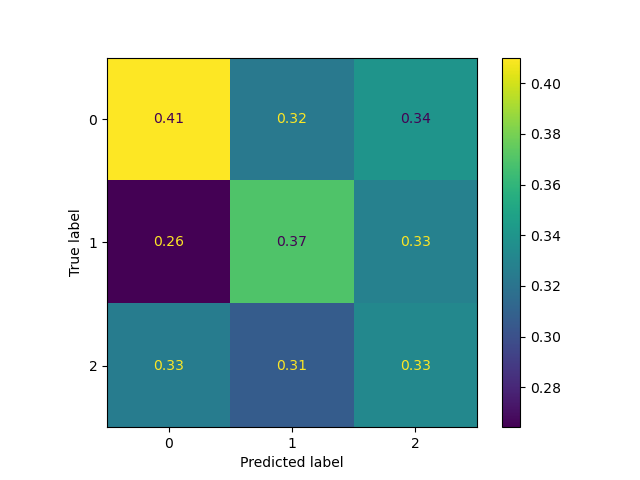
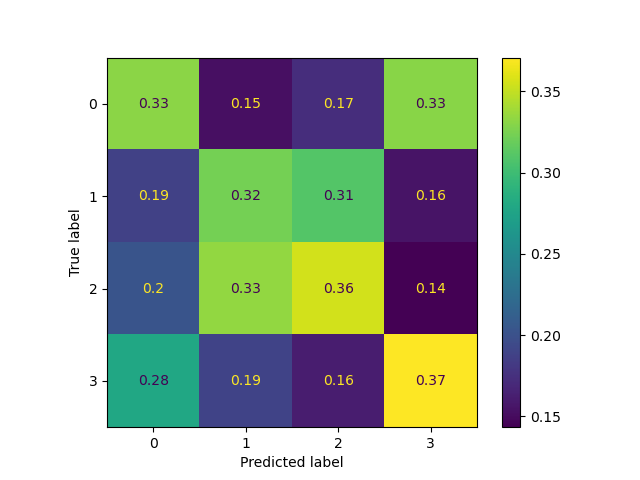
Running all the codes to check they work, including a new confusion matrix image

diff --git a/run_genetic_algo.py b/run_genetic_algo.py
@@ -10,23 +10,23 @@ if __name__ == "__main__":
                  'strat': 'simple bollinger band',
         
                  # Basic controls for the genetic algo
-                 'num strats': 40, # Number of strategies to try on each evolution
-                 'num tickers': 15, # Number of tickers to optimise over
+                 'num strats': 100, # Number of strategies to try on each evolution
+                 'num tickers': 10, # Number of tickers to optimise over
                  'num evolutions': 50, # Number of evolutions to perform
                  'keep perc': 0.2, # Percentage of top models to keep on each evolution
                  
                  # What to optimise, can be 'win rate', 'avg profit', 'median profit'
-                 'fitness': 'win rate',
+                 'fitness': 'avg profit',
                  
                  # Constraints
-                 'max hold': 5, # Maximum number of holding days
-                 'min trades': 40, # Minimum trades the strategy performs per ticker
-                 'max stop': -5, # Maximum stop loss to consider per trade
-                 'min profit': 5, # Minimum profit target per trade
+                 'max hold': 10, # Maximum number of holding days
+                 'min trades': 10, # Minimum trades the strategy performs per ticker
+                 'max stop': -10, # Maximum stop loss to consider per trade
+                 'min profit': 2, # Minimum profit target per trade
                  
                  # Out of sample testing and saving name
                  'num tickers test': 200, # Number of tickers to perform the out of sample testing
-                 'save name': 'wr_boll_short', # Save name for the optimised params
+                 'save name': 'profit_boll_short', # Save name for the optimised params
                  }
 
     # Run the algorithm

diff --git a/nn/strat_configs.py b/nn/strat_configs.py
@@ -34,13 +34,13 @@ def get_config(strat: str) -> dict:
         return {'mean type': 'exp',
                 'std type': 'exp',
                 'mean price': 'Open',
-                'std price': 'Close',
-                'mean days': 28,
-                'std days': 156,
-                'factor': -1.05,
-                'profit': 3,
-                'stop': -2,
-                'max hold': 5,
+                'std price': 'Open',
+                'mean days': 266,
+                'std days': 246,
+                'factor': -1.09,
+                'profit': 10,
+                'stop': -10,
+                'max hold': 10,
                 
                 'price feats': ['Open', 'Low', 'High', 'Close', 'boll_lower'],
                 'other feats': ['Volume'],

diff --git a/train_nn.py b/train_nn.py
@@ -11,9 +11,9 @@ if __name__ == "__main__":
                  'model save name': 'simple',
                  'time lags': range(1, 26), # Which days back to include in the nn features
                  'train perc': 0.8, # Train/test split
-                 'model type': 'vanilla', # Option to chose 'vanilla', 'lstm', or 'bidirectional'
+                 'model type': 'bidirectional', # Option to chose 'vanilla', 'lstm', or 'bidirectional'
                  'classes': 4, 
-                 'nodes': 512, # Number of nodes in layer 1
+                 'nodes': 64, # Number of nodes in layer 1
                  'dropout perc': 0.2, # Dropout percentage of any dropout layers
                  'epochs': 10, 
                  'batch size': 8, 

diff --git a/get_nn_input.py b/get_nn_input.py
@@ -8,7 +8,7 @@ if __name__ == "__main__":
     # Configuration settings for the NN data
     nn_config = {'strat name': 'simple bollinger band',
                  'save name': 'simple', # Data save name 
-                 'tickers': 150, # How many tickers used to train the nn
+                 'tickers': 300, # How many tickers used to train the nn
                  'time lags': range(1, 26), # Which days back to include in the nn features
                  }
 
